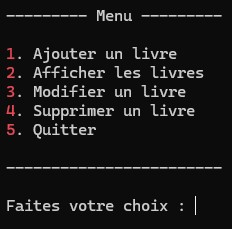
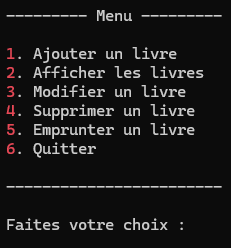
Update README : Add UML class diagram

diff --git a/README.md b/README.md
@@ -11,6 +11,12 @@ Menu principal de l'application console :
 Ce projet est une application console développée en C#.
 Il permet de gérer une bibliothèque de livres via les traitements CRUD.
 
+## 📊 Diagramme de classes
+
+Le diagramme ci-dessous illustre la structure de l'application et la séparation des responsabilités entre les différentes couches.
+
+![Diagramme de classes](documentation/uml/library-class-diagram.jpg)
+
 ## Fonctionnalités
 
 * Afficher un menu interactif
